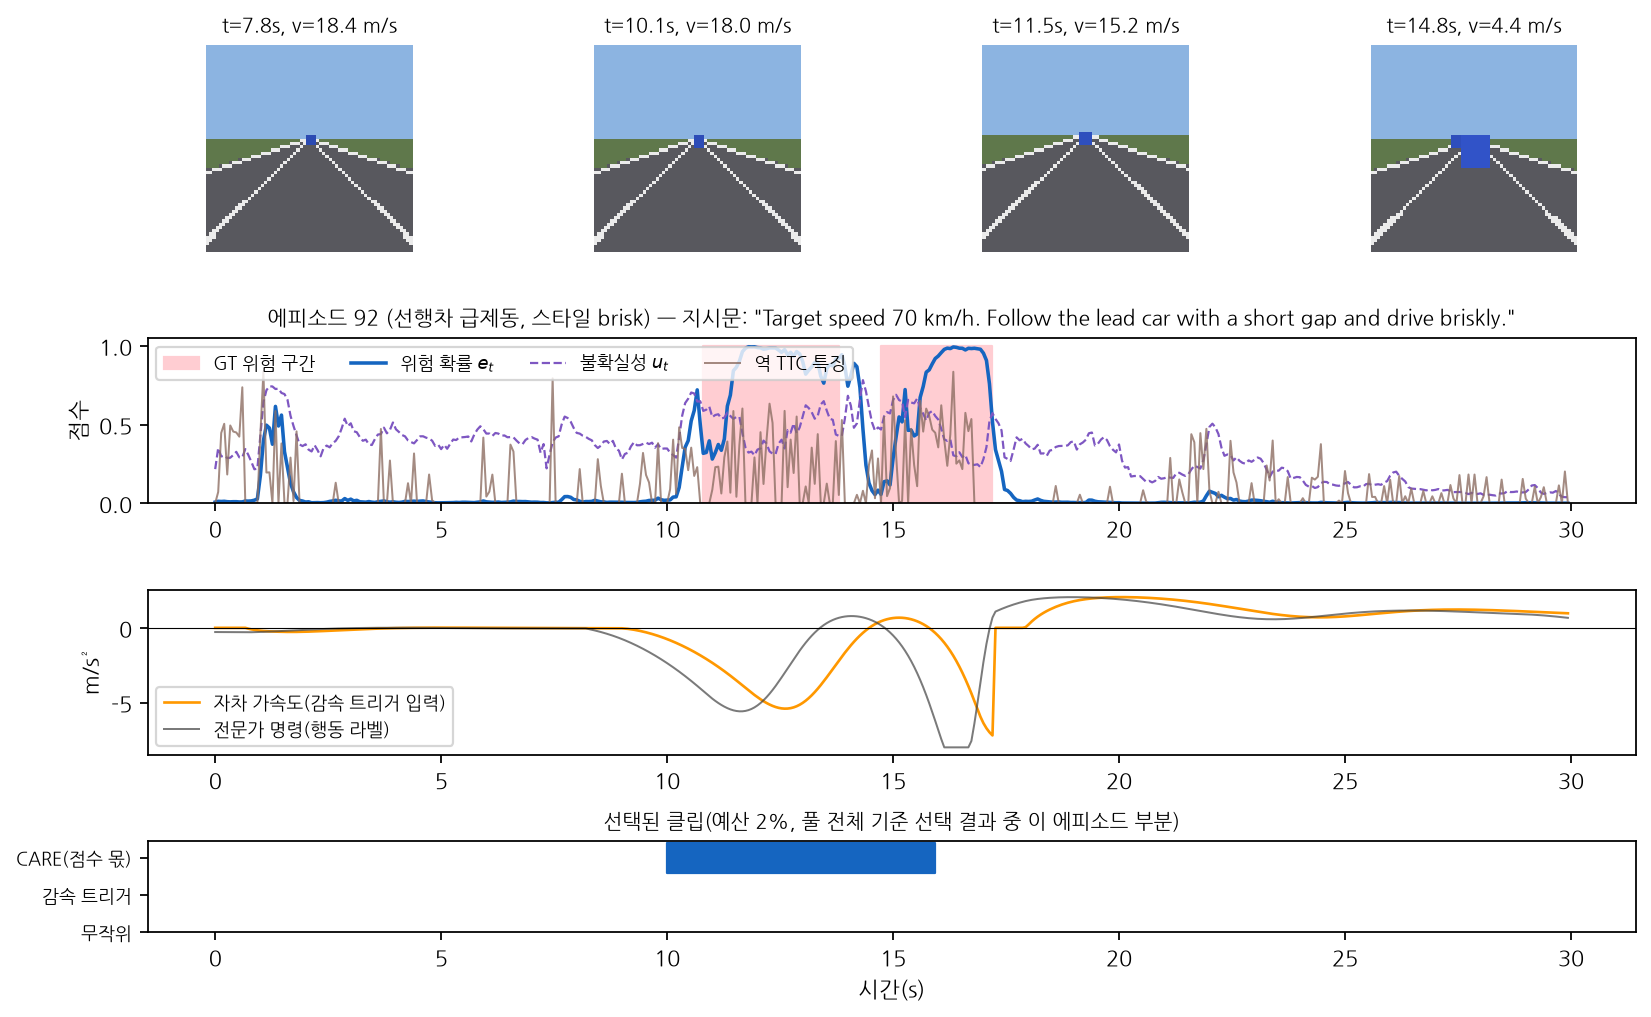
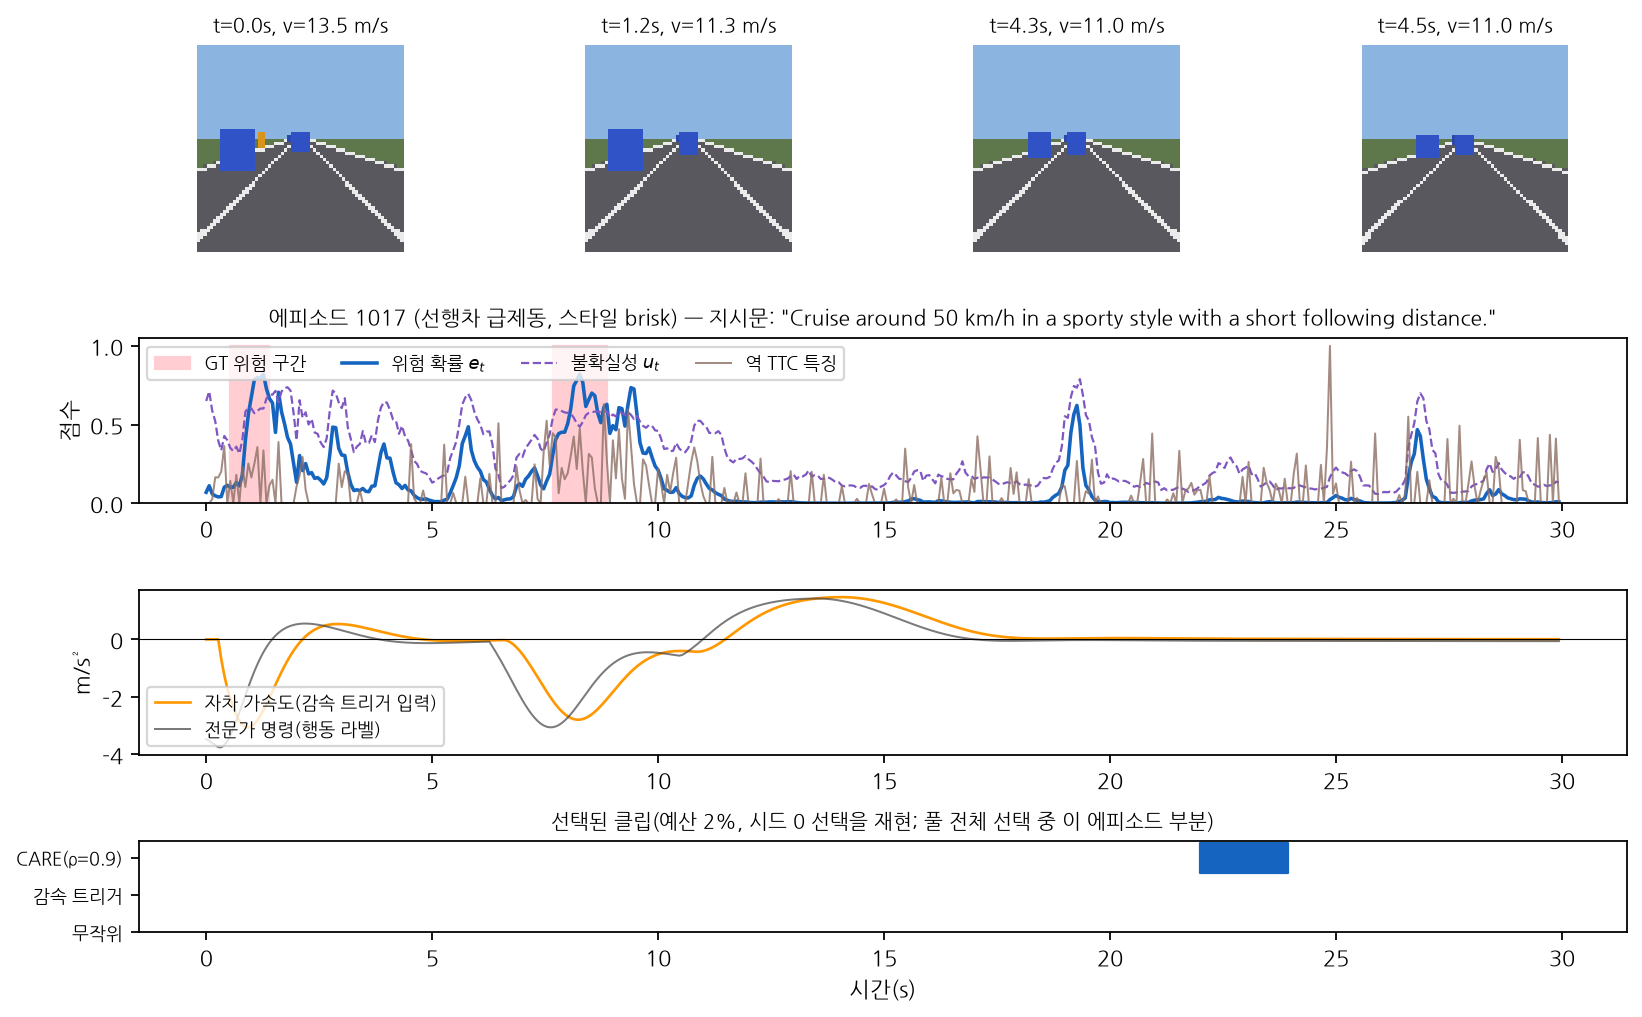
그림 3을 실제 CARE(ρ=0.9) 선택과 고정 시드 무작위 사례로 재생성, 빌더에 계층 부트스트랩·확증 검정 키 지원
Claude-Session: https://claude.ai/code/session_01GSsf4FLGc433Q6A4YHmwfK

diff --git a/scripts/plot_vla_qualitative.py b/scripts/plot_vla_qualitative.py
@@ -40,17 +40,18 @@ def main() -> None:
     tune = json.loads((root / "cache" / "tune_driving.json").read_text(encoding="utf-8"))
     common = dict(event_score=sc["event_score"], entropy=sc["entropy"], features=pool["X_v1v2"], action=sc["action"], ittc=sc["ittc"], oracle=sc["oracle"])
     masks = {}
+    # 본 실험과 같은 선택(시드 0의 선택 난수 1000)을 재현한다
     for name, m, kw in (
         ("무작위", "random", {}),
         ("감속 트리거", "action_trigger", {}),
-        ("CARE(점수 몫)", "ours", {"lam": tune["lam"], "reservoir": 0.0}),
+        (f"CARE(ρ={tune['reservoir']})", "ours", {"lam": tune["lam"], "reservoir": tune["reservoir"]}),
     ):
         masks[name] = select(m, args.budget, pool["ep"], cfg.clip_len, np.random.default_rng(1000), **common, **kw)
     ep_ids = pool["ep"]
     if args.episode < 0:
-        cands = [e["index"] for e in meta["episodes"] if e["scenario"] == "lead_brake"]
-        best = max(cands, key=lambda i: (masks["CARE(점수 몫)"][ep_ids == i] & sc["oracle"][ep_ids == i]).sum() - 0.5 * masks["감속 트리거"][ep_ids == i].sum() / 30)
-        ep = best
+        # 사례 선정 기준(심사 m8): 급제동 시나리오 에피소드 가운데 고정 시드(2026)로 무작위 추출
+        cands = sorted(e["index"] for e in meta["episodes"] if e["scenario"] == "lead_brake")
+        ep = int(np.random.default_rng(2026).choice(cands))
     else:
         ep = args.episode
     idx = np.where(ep_ids == ep)[0]
@@ -63,6 +64,9 @@ def main() -> None:
     haz = sc["oracle"][idx]
     first_h = int(np.argmax(haz)) if haz.any() else len(idx) // 2
     picks = sorted({max(0, first_h - 45), max(0, first_h - 10), min(len(idx) - 1, first_h + 10), min(len(idx) - 1, first_h + 60)})
+    extra = iter(np.linspace(0, len(idx) - 1, 8).astype(int).tolist())
+    while len(picks) < 4:  # 에피소드 초반 사건이면 중복이 생기므로 등간격 프레임으로 채운다
+        picks = sorted(set(picks) | {next(extra)})
     for k, j in enumerate(picks[:4]):
         ax = fig.add_subplot(gs[0, k])
         i = idx[j]
@@ -91,7 +95,7 @@ def main() -> None:
     ax3.set_yticks([0.4, 1.4, 2.4])
     ax3.set_yticklabels(list(masks), fontsize=8)
     ax3.set_xlabel("시간(s)")
-    ax3.set_title(f"선택된 클립(예산 {int(args.budget * 100)}%, 풀 전체 기준 선택 결과 중 이 에피소드 부분)", fontsize=9)
+    ax3.set_title(f"선택된 클립(예산 {int(args.budget * 100)}%, 시드 0 선택을 재현; 풀 전체 선택 중 이 에피소드 부분)", fontsize=9)
     out = Path("paper/figures/fig_vla_episode.png")
     fig.savefig(out, dpi=160, bbox_inches="tight")
     print(out, "episode", ep)

diff --git a/scripts/build_vla_paper.py b/scripts/build_vla_paper.py
@@ -91,6 +91,16 @@ def render(text: str, stats: dict[str, Any], root: Path, depth: int = 0) -> str:
     def lookup(key: str) -> Any:
         if key in stats:
             return stats[key]
+        # 계층 부트스트랩: hb:<비교키>:<diff|lo|hi|p_le0>, 시드 대응 t: hbt:<비교키>:<diff|lo|hi|t>
+        if key.startswith(("hb:", "hbt:")):
+            kind, comp, field = key.split(":", 2)
+            entry = stats["hboot"][comp]
+            return entry["seed_t"][field] if kind == "hbt" else entry[field]
+        # 확증 실험 검정: ct:<검정키>:<diff|lo|hi|p_le0|p_holm>, 시드 대응 t: ctt:<검정키>:<diff|lo|hi|t>
+        if key.startswith(("ct:", "ctt:")):
+            kind, comp, field = key.split(":", 2)
+            entry = stats["confirm_tests"][comp]
+            return entry["seed_t"][field] if kind == "ctt" else entry[field]
         raise KeyError(key)
 
     def repl(m: re.Match[str]) -> str:
